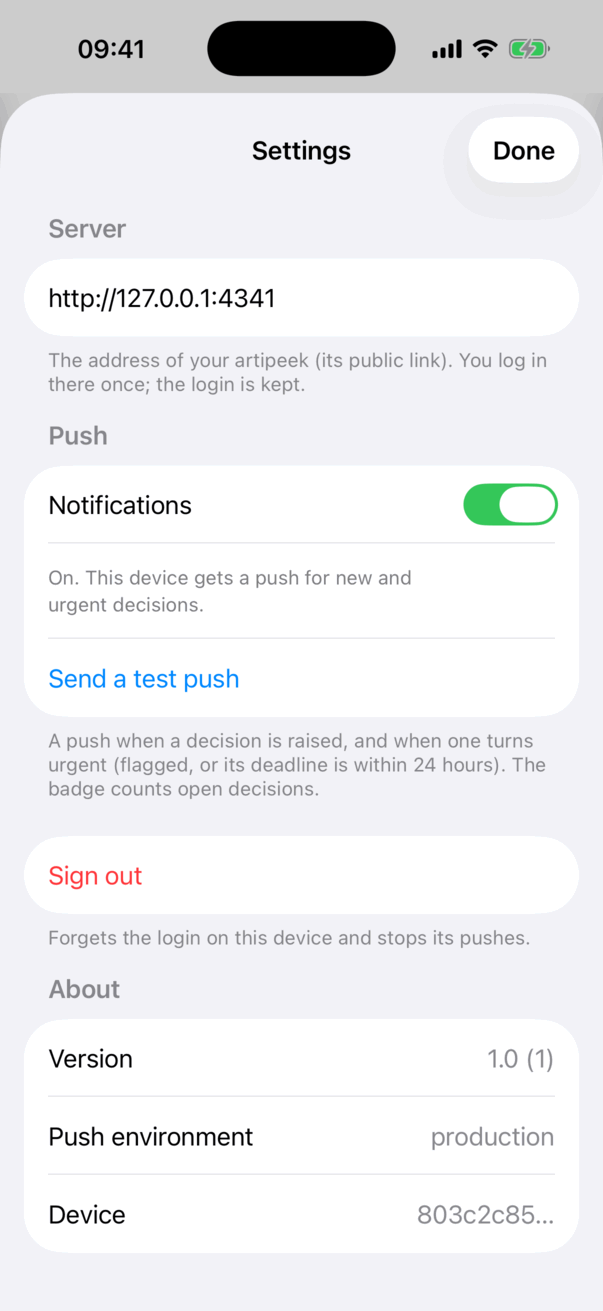
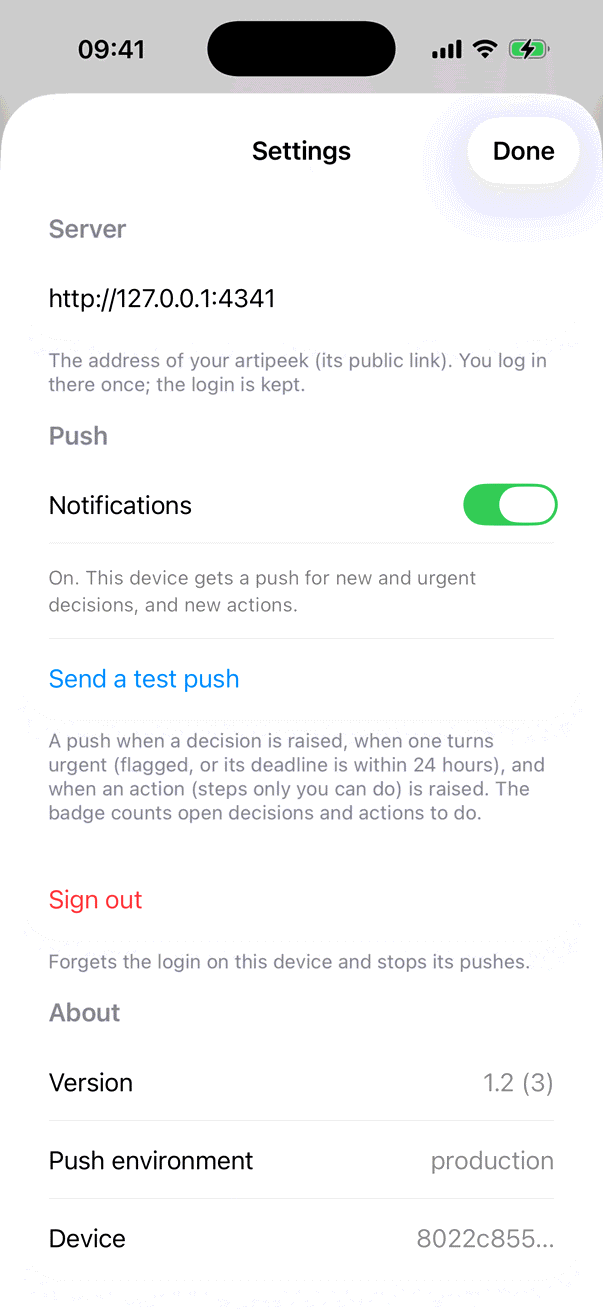
README: ảnh chụp ứng dụng iOS 1.2 và Apple Watch làm mới, thêm ảnh hành động
- Làm mới ios-decisions, ios-push, ios-settings, ipad-dark, watch-list, watch-decision, watch-questions (dữ liệu demo bịa: notes, my-project).
- Ảnh mới: ios-actions (tab Actions trong app), ios-action-push (push hành động với nút "Ask the agent to do it…" và "Open"), watch-actions (danh sách hành động trên đồng hồ), watch-action và watch-steps (một hành động và các bước của nó).
- Mục "iOS app, Apple Watch and push" của README và ios/README cập nhật theo.

diff --git a/ios/README.md b/ios/README.md
@@ -1,17 +1,22 @@
 # artipeek for iOS and Apple Watch
 
-A native SwiftUI shell around artipeek's own web UI, plus push notifications for decisions (with answer buttons), and
-an Apple Watch app to answer them on the go. The app shows the artipeek
-server in a `WKWebView`, so the Decisions tab, the file list, file tabs, answers and explainers are the web version's,
+A native SwiftUI shell around artipeek's own web UI, plus push notifications for decisions (with answer buttons) and
+actions, and an Apple Watch app to answer decisions and tick off actions on the go. The app shows the artipeek
+server in a `WKWebView`, so the Decisions and Actions tabs, the file list, file tabs, answers and explainers are the web version's,
 and a new web feature is in the app without an app update.
 
 <p>
-  <img src="../docs/screenshots/ios-decisions.png" width="200" alt="The app on an iPhone: the Decisions tab, logged in through the public link, an urgent decision with its deadline">
-  <img src="../docs/screenshots/ios-push.png" width="200" alt="A push banner: my-project · D12 · urgent, with the decision's title">
-  <img src="../docs/screenshots/ios-settings.png" width="200" alt="The app's settings: server, notifications on, send a test push, sign out">
+  <img src="../docs/screenshots/ios-decisions.png" width="200" alt="The app on an iPhone: the Decisions tab, logged in through the public link, an urgent decision with its deadline and a link to the action it led to (A14)">
+  <img src="../docs/screenshots/ios-push.png" width="200" alt="A push banner: my-project · D12 · urgent, with the decision's title and its options">
+  <img src="../docs/screenshots/ios-settings.png" width="200" alt="The app's settings: server, notifications on, send a test push, sign out; the badge counts open decisions and actions to do">
 </p>
 
-<img src="../docs/screenshots/ipad-dark.png" width="420" alt="On an iPad in dark mode the file list sits on the left, with the app's settings gear in its header">
+<p>
+  <img src="../docs/screenshots/ios-actions.png" width="200" alt="The Actions tab in the app: A14, an urgent checklist from D12; step 1 verified by the agent, step 2 with a command and its Copy button">
+  <img src="../docs/screenshots/ios-action-push.png" width="200" alt="An action's push, held open: my-project · A14 · action for you, 3 steps, with the buttons Ask the agent to do it… and Open">
+</p>
+
+<img src="../docs/screenshots/ipad-dark.png" width="420" alt="On an iPad in dark mode the file list sits on the left, with Decisions and Actions (2 to do, 1 urgent, 1 with the agent) and the app's settings gear in its header">
 
 <sub>Screenshots use made-up demo folders.</sub>
 
@@ -40,9 +45,15 @@ Native parts:
 ## Apple Watch
 
 <p>
-  <img src="../docs/screenshots/watch-list.png" width="160" alt="The Watch app: open decisions, urgent first">
-  <img src="../docs/screenshots/watch-decision.png" width="160" alt="A decision: options as buttons, the recommended one green">
-  <img src="../docs/screenshots/watch-questions.png" width="160" alt="Two questions: one pick each">
+  <img src="../docs/screenshots/watch-list.png" width="160" alt="The Apple Watch app: 3 open, 1 urgent; the urgent decision first, with the time left">
+  <img src="../docs/screenshots/watch-decision.png" width="160" alt="A decision on the Watch: the recommended option in green with a star; tap, confirm, saved">
+  <img src="../docs/screenshots/watch-questions.png" width="160" alt="A decision with two questions on the Watch: one pick per question, then Send my answers">
+</p>
+
+<p>
+  <img src="../docs/screenshots/watch-actions.png" width="160" alt="Below the decisions on the Watch: 2 actions to do, 1 urgent, with how many steps are ticked (1/3), then those with the agent">
+  <img src="../docs/screenshots/watch-action.png" width="160" alt="An action on the Watch: urgent, 1/3 steps ticked, the deadline, from D12">
+  <img src="../docs/screenshots/watch-steps.png" width="160" alt="Its steps on the Watch: step 1 verified by the agent; step 2 with where to run it and the whole command, to read; tap a step, confirm, ticked">
 </p>
 
 `ArtipeekWatch` is embedded in the iPhone app and installs on the paired Watch (Watch app → artipeek → Install, or

diff --git a/README.md b/README.md
@@ -350,20 +350,31 @@ To undo: delete the Access app, DNS record, and tunnel rule; revoke the API toke
 
 ## iOS app, Apple Watch and push (optional)
 
-[`ios/`](ios/README.md) contains a SwiftUI shell around artipeek's web UI (`WKWebView`), so web updates appear in the app immediately without rebuilding. Native features add push notifications, app icon badges, Cloudflare Access login, notification answer buttons, settings (server URL, notifications toggle, test push, sign out), and an Apple Watch companion app with a watch-face complication. See [`ios/README.md`](ios/README.md) for Xcode and TestFlight build steps.
+[`ios/`](ios/README.md) contains a SwiftUI shell around artipeek's web UI (`WKWebView`), so web updates appear in the app immediately without rebuilding. Native features add push notifications, app icon badges (open decisions + actions to do), Cloudflare Access login, notification answer buttons, an **Ask the agent to do it…** button on an action's push, settings (server URL, notifications toggle, test push, sign out), and an Apple Watch companion app (decisions and actions) with a watch-face complication. See [`ios/README.md`](ios/README.md) for Xcode and TestFlight build steps.
 
 <p>
-  <img src="docs/screenshots/ios-decisions.png" width="200" alt="The app on an iPhone: the Decisions tab, logged in through the public link, an urgent decision with its deadline">
-  <img src="docs/screenshots/ios-push.png" width="200" alt="A push banner: my-project · D12 · urgent, with the decision's title">
-  <img src="docs/screenshots/ios-settings.png" width="200" alt="The app's settings: server, notifications on, send a test push, sign out">
+  <img src="docs/screenshots/ios-decisions.png" width="200" alt="The app on an iPhone: the Decisions tab, logged in through the public link, an urgent decision with its deadline and a link to the action it led to (A14)">
+  <img src="docs/screenshots/ios-push.png" width="200" alt="A push banner: my-project · D12 · urgent, with the decision's title and its options">
+  <img src="docs/screenshots/ios-settings.png" width="200" alt="The app's settings: server, notifications on, send a test push, sign out; the badge counts open decisions and actions to do">
 </p>
 
-<img src="docs/screenshots/ipad-dark.png" width="420" alt="On an iPad in dark mode the file list sits on the left, with the app's settings gear in its header">
+<p>
+  <img src="docs/screenshots/ios-actions.png" width="200" alt="The Actions tab in the app: A14, an urgent checklist from D12; step 1 verified by the agent, step 2 with a command and its Copy button">
+  <img src="docs/screenshots/ios-action-push.png" width="200" alt="An action's push, held open: my-project · A14 · action for you, 3 steps, with the buttons Ask the agent to do it… and Open">
+</p>
+
+<img src="docs/screenshots/ipad-dark.png" width="420" alt="On an iPad in dark mode the file list sits on the left, with Decisions and Actions (2 to do, 1 urgent, 1 with the agent) and the app's settings gear in its header">
 
 <p>
   <img src="docs/screenshots/watch-list.png" width="160" alt="The Apple Watch app: 3 open, 1 urgent; the urgent decision first, with the time left">
   <img src="docs/screenshots/watch-decision.png" width="160" alt="A decision on the Watch: the recommended option in green with a star; tap, confirm, saved">
   <img src="docs/screenshots/watch-questions.png" width="160" alt="A decision with two questions on the Watch: one pick per question, then Send my answers">
+</p>
+
+<p>
+  <img src="docs/screenshots/watch-actions.png" width="160" alt="Below the decisions on the Watch: 2 actions to do, 1 urgent, with how many steps are ticked (1/3), then those with the agent">
+  <img src="docs/screenshots/watch-action.png" width="160" alt="An action on the Watch: urgent, 1/3 steps ticked, the deadline, from D12">
+  <img src="docs/screenshots/watch-steps.png" width="160" alt="Its steps on the Watch: step 1 verified by the agent; step 2 with where to run it and the whole command, to read; tap a step, confirm, ticked">
 </p>
 
 <sub>Screenshots use made-up demo folders.</sub>
